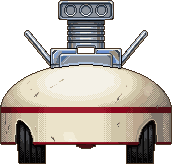
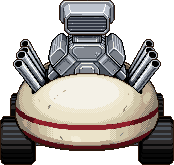
版329(Ver.1.1): ぽんぽんカーの前輪とうしろ姿

diff --git a/field/index.html b/field/index.html
@@ -14,8 +14,8 @@
   <link rel="apple-touch-icon" href="./apple-touch-icon.png">
   <meta name="apple-mobile-web-app-title" content="ぼぎだぢ">
   <meta http-equiv="Cache-Control" content="no-cache">
-  <script src="./fresh.js?v=328"></script>
-  <link rel="stylesheet" href="./style.css?v=328">
+  <script src="./fresh.js?v=329"></script>
+  <link rel="stylesheet" href="./style.css?v=329">
 </head>
 <body>
 
@@ -53,30 +53,30 @@
   <button type="button" id="actionBtnT" class="action-btn action-btn-t" aria-label="時計">TIME</button>
 
 
-  <script src="./audio.js?v=328"></script>
-  <script src="./rpg.js?v=328"></script>
-  <script src="./worlds/common.js?v=328"></script>
-  <script src="./worlds/lake.js?v=328"></script>
-  <script src="./worlds/void.js?v=328"></script>
-  <script src="./worlds/haihei.js?v=328"></script>
-  <script src="./worlds/kasumi.js?v=328"></script>
-  <script src="./worlds/banana.js?v=328"></script>
-  <script src="./worlds/suzuki.js?v=328"></script>
-  <script src="./worlds/takarabune.js?v=328"></script>
-  <script src="./worlds/noroi.js?v=328"></script>
-  <script src="./worlds/pinball.js?v=328"></script>
-  <script src="./worlds/padre.js?v=328"></script>
-  <script src="./worlds/kinsei.js?v=328"></script>
-  <script src="./worlds/bomber.js?v=328"></script>
-  <script src="./worlds/finale.js?v=328"></script>
-  <script src="./worlds/index.js?v=328"></script>
-  <script src="./app/layout.js?v=328"></script>
-  <script src="./app/dialog.js?v=328"></script>
-  <script src="./app/game.js?v=328"></script>
-  <script src="./app/status.js?v=328"></script>
-  <script src="./app/title.js?v=328"></script>
-  <script src="./app/watch.js?v=328"></script>
-  <script src="./app/input.js?v=328"></script>
-  <script src="./app/loop.js?v=328"></script>
+  <script src="./audio.js?v=329"></script>
+  <script src="./rpg.js?v=329"></script>
+  <script src="./worlds/common.js?v=329"></script>
+  <script src="./worlds/lake.js?v=329"></script>
+  <script src="./worlds/void.js?v=329"></script>
+  <script src="./worlds/haihei.js?v=329"></script>
+  <script src="./worlds/kasumi.js?v=329"></script>
+  <script src="./worlds/banana.js?v=329"></script>
+  <script src="./worlds/suzuki.js?v=329"></script>
+  <script src="./worlds/takarabune.js?v=329"></script>
+  <script src="./worlds/noroi.js?v=329"></script>
+  <script src="./worlds/pinball.js?v=329"></script>
+  <script src="./worlds/padre.js?v=329"></script>
+  <script src="./worlds/kinsei.js?v=329"></script>
+  <script src="./worlds/bomber.js?v=329"></script>
+  <script src="./worlds/finale.js?v=329"></script>
+  <script src="./worlds/index.js?v=329"></script>
+  <script src="./app/layout.js?v=329"></script>
+  <script src="./app/dialog.js?v=329"></script>
+  <script src="./app/game.js?v=329"></script>
+  <script src="./app/status.js?v=329"></script>
+  <script src="./app/title.js?v=329"></script>
+  <script src="./app/watch.js?v=329"></script>
+  <script src="./app/input.js?v=329"></script>
+  <script src="./app/loop.js?v=329"></script>
 </body>
 </html>

diff --git a/field/worlds/noroi.js b/field/worlds/noroi.js
@@ -606,7 +606,7 @@ const N_FLAME = {
   rcs_aka: [[56, 64, -1, 0.15]],
   rc_aka_back: [[20, 49, 0, 0], [21, 53, 0, 0], [22, 57, 0, 0], [73, 49, 0, 0], [72, 53, 0, 0], [71, 57, 0, 0]], // 胴の左右の横腹の外の口 6 つから手前へ(D357)
   rcs_pon: [[18, 33, -0.6, -1], [32, 34, -0.6, -1], [44, 34, -0.6, -1], [55, 35, -0.6, -1]],
-  rc_pon_back: [[27, 31, -0.7, -1], [145, 31, 0.7, -1]],
+  rc_pon_back: [[25, 43, 0, 0], [23, 49, 0, 0], [21, 54, 0, 0], [18, 63, 0, 0], [149, 43, 0, 0], [151, 49, 0, 0], [153, 54, 0, 0], [156, 63, 0, 0]], // 左右 4 本ずつの口がこちらを向く(D361)
   rcs_kokeshi: [[8, 62, -1, -0.35]],
   rc_kokeshi_back: [[5, 66, 0, 0], [29, 66, 0, 0]],
 };

diff --git a/field/fresh.js b/field/fresh.js
@@ -1,7 +1,7 @@
 // 古い版が残らないように(ホーム画面に置いたとき、ページそのものが手元に残る)。index.html の中から、このファイルに出した(D301。ページの中に直接書いた script を禁止するため)
 // version.json(毎回取りにいく)の版がこのページとちがえば、URL を変えて読みなおす。版を上げるときは、下の数と version.json と ?v= をそろえる
 (function () {
-  var V = "328";
+  var V = "329";
   var key = "bogidachi.reloadedFor";
   function check(onlyIfSafe) {
     fetch("./version.json?t=" + Date.now(), { cache: "no-store" })
